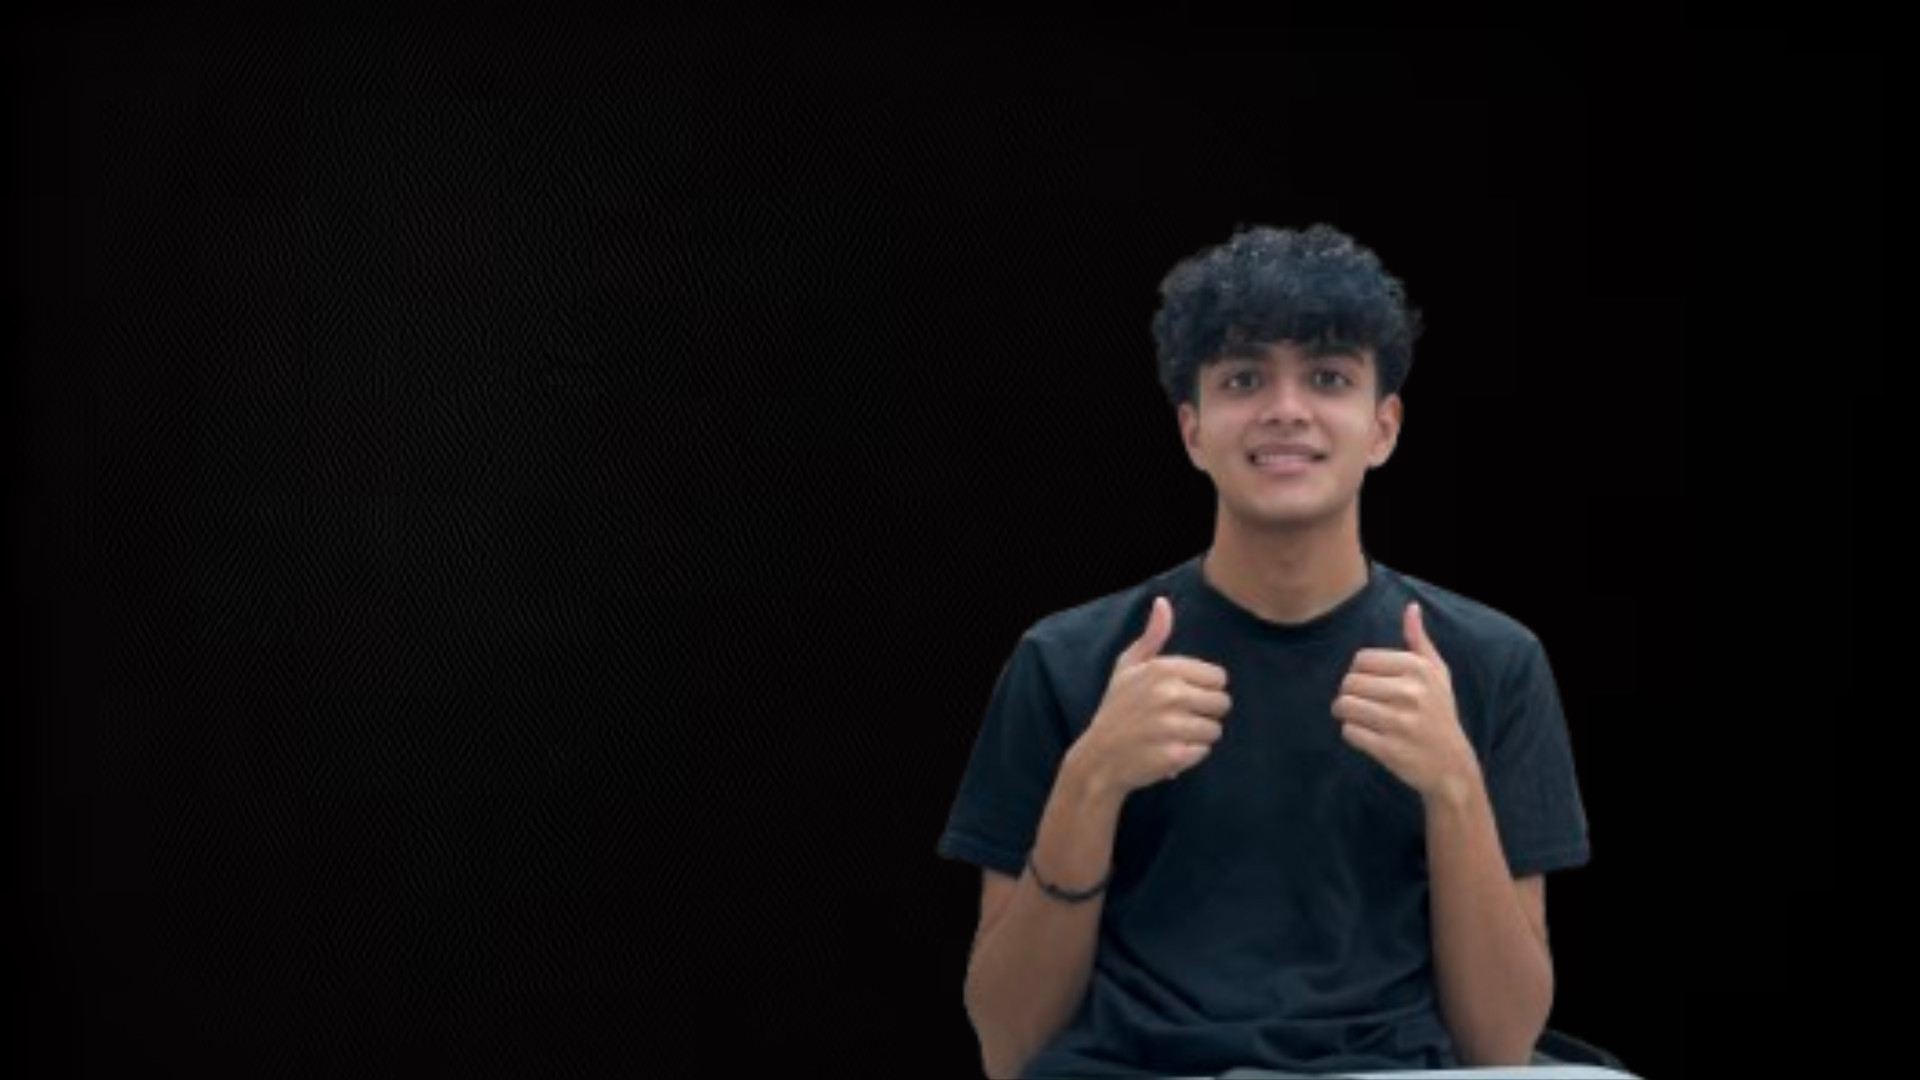
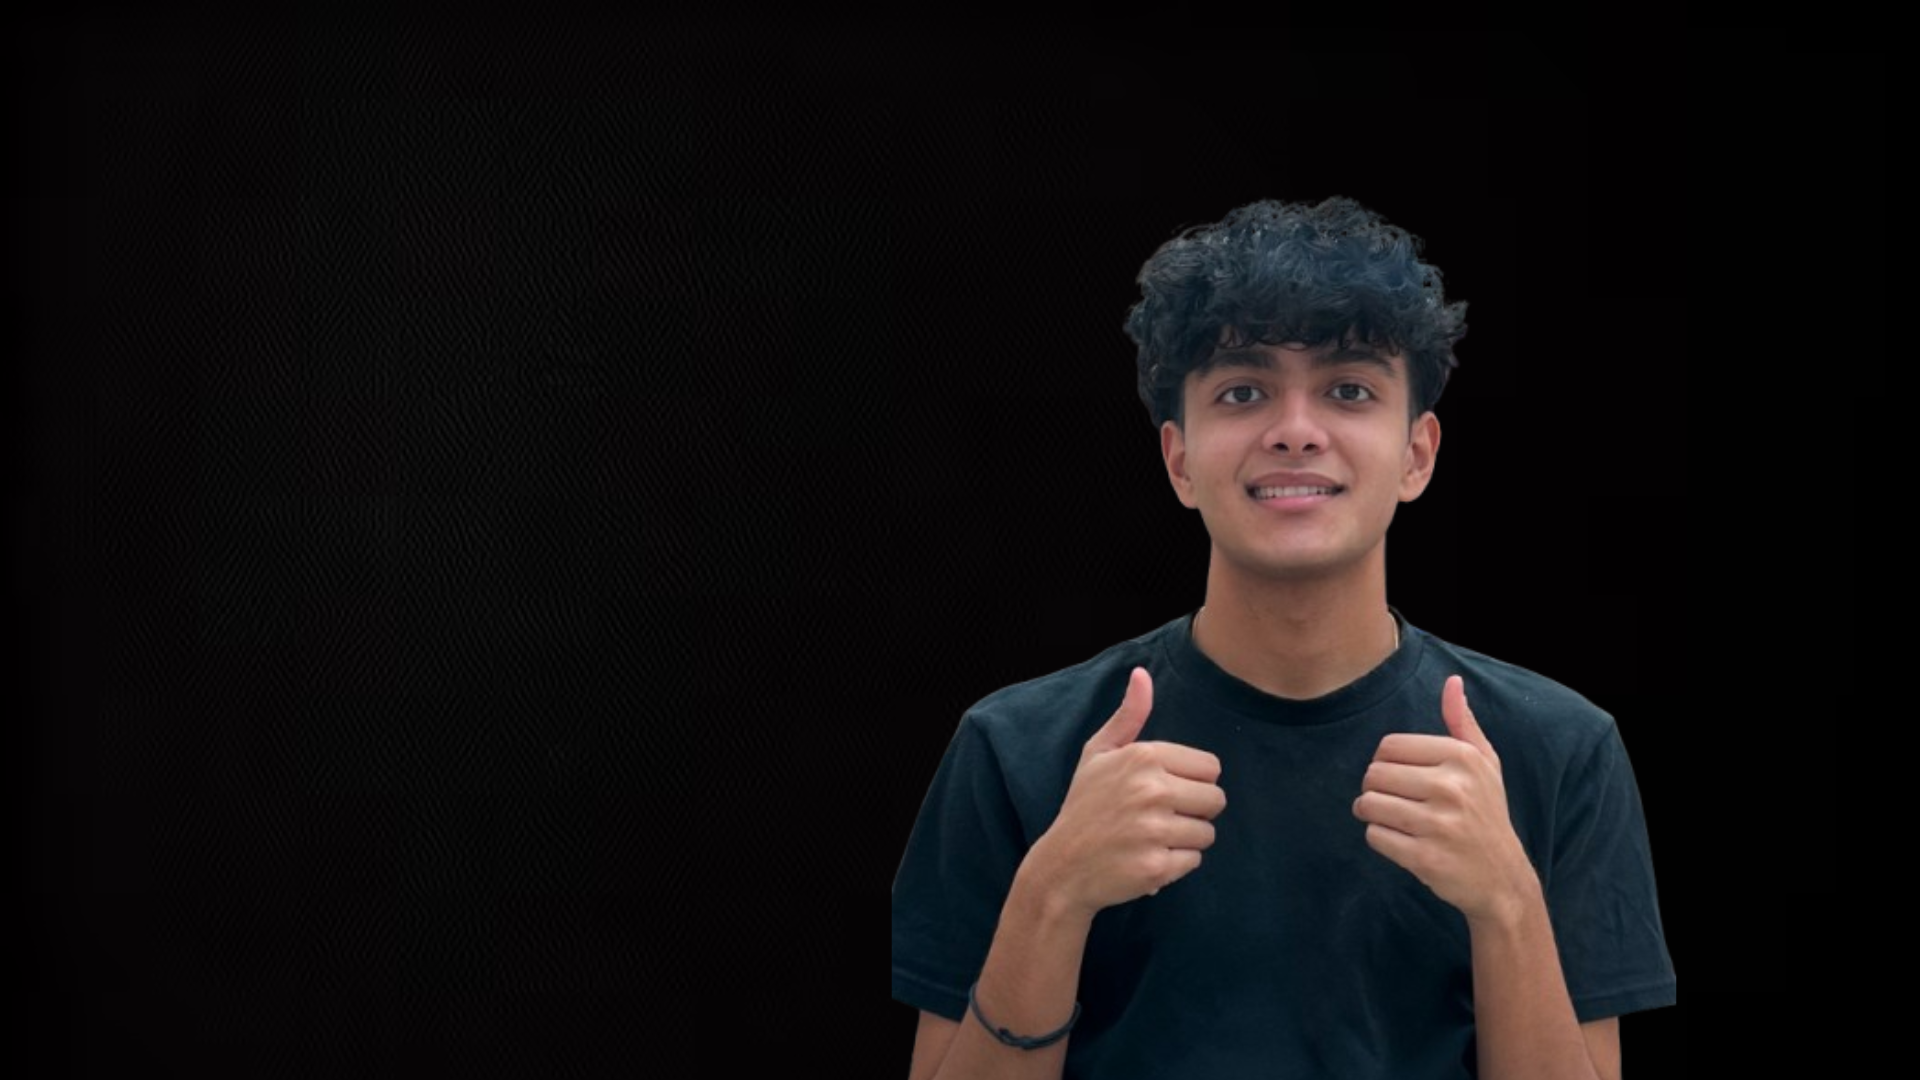
final

Changed region(s): [[0.4375, 0.1833, 0.875, 1.0]]

diff --git a/index.html b/index.html
@@ -34,35 +34,35 @@
    <div class="container">
     <div class="row">
         <div class="about-col-1">
-            <img src="images/user.png">
+            <img src="images/image 2 (1) (1).jpg">
         </div>
         <div class="about-col-2">
             <h1 class ="sub-title">About Me</h1>
-            <p>Lorem ipsum dolor sit amet consectetur adipisicing elit. Quo odit id aperiam saepe, sapiente modi itaque soluta ipsa asperiores numquam sit ratione aliquid dolorem deleniti, perferendis qui ab delectus autem.</p>
-            <div class="tab-titles">
+            <p>Hi, I'm Saahil, a passionate computer science student at the University of Texas at Austin with a keen interest in AI, software development, and problem-solving. I enjoy building innovative solutions, from productivity apps to AI-driven tools, and take pride in mentoring and collaborating with others. Outside of academics, I'm an avid basketball fan rooting for the Golden State Warriors and love exploring new destinations through travel.</p>
+            <div class="tab-titles">        
                 <p class = "tab-links active-link" onclick = "opentab('skills')">Skills</p>
                 <p class = "tab-links" onclick = "opentab('experience')">Experience</p>
                 <p class = "tab-links"onclick = "opentab('education')">Education</p>
             </div>
             <div class="tab-contents active-tab" id ="skills">
                 <ul>
-                    <li><span>UI?UX</span><br>Desigining Web/App Interfaces</li>
-                    <li><span>Web Development</span><br>Desigining Web/App Interfaces</li>
-                    <li><span>App Development</span><br>Desigining Web/App Interfaces</li>
+                    <li><span>UI?UX</span><br>Desigining Web/App Interfaces in React JS</li>
+                    <li><span>Java / Python /</span><br>Proficient in building scalable, robust applications using Java and Python</li>
+                    <li><span>Mathamatics</span><br>Strong foundation in mathematics, including problem-solving, analytical reasoning, and proficiency in concepts such as algebra, calculus, and linear algebra</li>
                 </ul>
             </div>
             <div class="tab-contents" id = "experience">
                 <ul>
-                    <li><span>Experience</span><br>Desigining Web/App Interfaces</li>
-                    <li><span>Web Development</span><br>Desigining Web/App Interfaces</li>
-                    <li><span>App Development</span><br>Desigining Web/App Interfaces</li>
+                    <li><span>Efficienergi Consulting</span><br>At Efficienergi Consulting, I developed an AI program to process training materials and respond to employee queries using Python, HTML/CSS, and Machine Learning. Presented the project’s functionality to stakeholders.</li>
+                    <li><span>Suits</span><br>At Suits, I designed user interfaces with React Native, developed a RAG algorithm leveraging OpenAI's GPT models, and migrated workflows to Firebase Cloud Firestore for scalable, real-time data management.</li>
+                    <li><span>UT Dallas Summer Research Program</span><br>During my internship at the University of Texas at Dallas, I developed productivity apps in Android Studio, integrating location services and other APIs, built a task manager app using linked lists, and enhanced my skills in Java, Python, and data structures.</li>
                 </ul>
             </div>
             <div class="tab-contents" id = "education">
                 <ul>
-                    <li><span>Education</span><br>Desigining Web/App Interfaces</li>
-                    <li><span>Web Development</span><br>Desigining Web/App Interfaces</li>
-                    <li><span>App Development</span><br>Desigining Web/App Interfaces</li>
+                    <li><span>University of Texas at Austin<br>Bachelor in Computer Science and Mathematics</span>
+                        <br>Relevant Coursework: Data Structures, Discrete Math, Multivariable calclus, Differential Equations, Computer Architecture, Linear Alegbra </li>
+                    <li><span>Plano West Senior High School</span><br>Relevant Coursework: Computer Science Principles, Computer Science A, Calculus BC, Multivariable Calculus</li>
                 </ul>
             </div>
         </div>
@@ -75,30 +75,27 @@
       <h1 class="sub-title">My Work</h1>
       <div class="work-list">
         <div class="work">
-          <img src="images/work-1.png">
+          <img src="images/images (1).jpeg">
           <div class="layer">
-            <h3>Social Media App</h3>
-            <p>The app connects you to the talented people around the world.
-            Download it from play store.</p>
-            <a href="#"><i class="fas fa-external-link-alt"></i></a>
+            <h3>AI Chatbot</h3>
+            <p>Developed an offline AI program using Langchain, HuggingFace, and FAISS for efficient document processing and similarity searches, integrated with GPT4All for local question answering. This project effectively addressed employee queries by processing training manuals</p>
+            <a href="https://github.com/SaahilM06/GPT4All"><i class="fas fa-external-link-alt"></i></a>
         </div>
         </div>
         <div class="work">
-          <img src="images/work-2.png">
-          <div class="layer">
-            <h3>Music App</h3>
-            <p>The app connects you to the talented people around the world.
-            Download it from play store.</p>
-            <a href="#"><i class="fas fa-external-link-alt"></i></a>
+            <img src="images/300x0w.jpg" class="work-image work2-image">
+            <div class="layer">
+            <h3>Guarden Guide App</h3>
+            <p>Designed an Android app to simplify gardening tasks by integrating APIs like OpenWeatherMap for real-time weather and soil data. The app promotes sustainability and combines Python and HTML for its functionality.</p>
+            <a href="https://github.com/akhilk999/GardenGuide.git"><i class="fas fa-external-link-alt"></i></a>
           </div>
         </div>
         <div class="work">
-          <img src="images/work-3.png">
+          <img src="images/Screenshot 2025-01-15 at 3.52.06 PM.png" class="work-image work3-image" >
           <div class="layer">
-            <h3>Machine Learning App</h3>
-            <p>The app connects you to the talented people around the world.
-            Download it from play store.</p>
-            <a href="#"><i class="fas fa-external-link-alt"></i></a>
+            <h3>Association for Young Scientists and Innovators</h3>
+            <p>Created a clean, visually appealing website using HTML and CSS to promote science-based education. The website features an organized layout for intuitive navigation and accessibility.</p>
+            <a href="https://aysi.simplybook.me/v2/"><i class="fas fa-external-link-alt"></i></a>
           </div>
         </div>
       </div>
@@ -110,8 +107,8 @@
         <div class="row">
             <div class="contact-left">
                 <h1 class="sub-title">Contact Me</h1>
-                <p><i class="fas fa-paper-plane"></i> contact@example.com</p>
-                <p><i class="fas fa-phone-square-alt"></i> 0123456789</p>
+                <p><i class="fas fa-paper-plane"></i> saahilm30@gmail.com</p>
+                <p><i class="fas fa-phone-square-alt"></i> 972-469-3673</p>
                 <div class="social-icons">
                     <a href="https://facebook.com/"><i class="fab fa-facebook"></i></a>
                     <a href=""><i class="fab fa-twitter-square"></i></a>

diff --git a/style.css b/style.css
@@ -159,6 +159,11 @@ nav ul li a:hover::after {
     display: block;
 }
 
+.tab-contents ul li span.degree {
+    color: #ff004f; 
+    font-style: italic;
+}
+
 #portfolio{
     padding: 50px 0;
 }
@@ -177,10 +182,25 @@ nav ul li a:hover::after {
 }
 
 .work img{
-    width: 100%;
+    width: 80%;
     border-radius: 10px;
     display: block;
     transition: transform(0.5);
+}
+
+.work2-image {
+    height: 387px; 
+    border-radius: 10px;
+    margin-left: 25px; 
+
+    
+}
+
+.work3-image {
+    height: 387px; 
+    border-radius: 10px;
+    margin-left: 25px; 
+
 }
 
 
